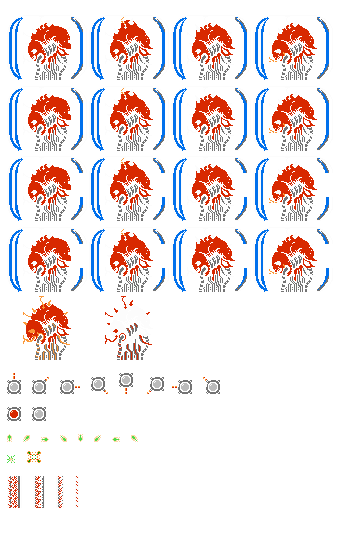
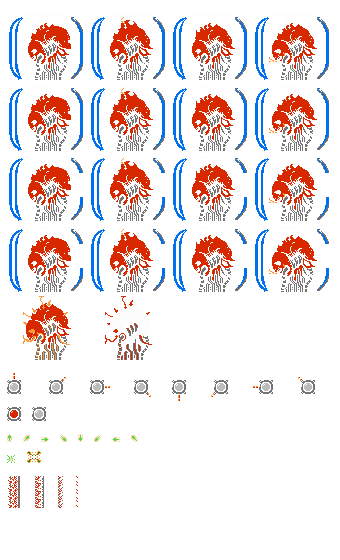
Update CannonBullet + LeftCannon

diff --git a/Metroid/LeftCannon.cpp b/Metroid/LeftCannon.cpp
@@ -27,7 +27,7 @@ void LeftCannon::update(float deltatime)
 		if (_cannonBulletAppearStopWatch->isStopWatch(CANNON_BULLET_APPEAR_TIME))
 		{
 			_spriteIndex++;
-			if (_spriteIndex >= 5)
+			if (_spriteIndex >= 8)
 				_spriteIndex = 0;
 
 			switch (_spriteIndex)
@@ -47,15 +47,24 @@ void LeftCannon::update(float deltatime)
 			case 4:
 				_sprite->setFrameRect(SpriteManager::getInstance()->getSourceRect(eID::BOSS_STAGE, "cannon_05"));
 				break;
+			case 5:
+				_sprite->setFrameRect(SpriteManager::getInstance()->getSourceRect(eID::BOSS_STAGE, "cannon_04"));
+				break;
+			case 6:
+				_sprite->setFrameRect(SpriteManager::getInstance()->getSourceRect(eID::BOSS_STAGE, "cannon_03"));
+				break;
+			case 7:
+				_sprite->setFrameRect(SpriteManager::getInstance()->getSourceRect(eID::BOSS_STAGE, "cannon_02"));
+				break;
 			default:
 				break;
 			}
 
-			if (_spriteIndex == 3)
+			if (_spriteIndex == 3 || _spriteIndex == 5)
 			{
 				auto cannonBulletPosition = GVector2(this->getPosition().x, this->getPosition().y);
 
-				CannonBullet* cannonBullet = new CannonBullet(cannonBulletPosition.x, cannonBulletPosition.y, GVector2(CANNON_BULLET_MOVE_SPEED, -CANNON_BULLET_MOVE_SPEED));
+				CannonBullet* cannonBullet = new CannonBullet(cannonBulletPosition.x, cannonBulletPosition.y, eID::LEFT_CANNON);
 				cannonBullet->init();
 				QuadTreeNode::getInstance()->insert(cannonBullet);
 			}

diff --git a/Metroid/CannonBullet.cpp b/Metroid/CannonBullet.cpp
@@ -1,6 +1,6 @@
 #include "CannonBullet.h"
 
-CannonBullet::CannonBullet(int x, int y, GVector2 velocity) : BaseObject(CANNON_BULLET)
+CannonBullet::CannonBullet(int x, int y, eID cannonId) : BaseObject(CANNON_BULLET)
 {
 	_sprite = SpriteManager::getInstance()->getSprite(eID::BOSS_STAGE);
 	_sprite->setFrameRect(SpriteManager::getInstance()->getSourceRect(eID::BOSS_STAGE, "cannon_bullet_01"));
@@ -15,9 +15,20 @@ CannonBullet::CannonBullet(int x, int y, GVector2 velocity) : BaseObject(CANNON_
 
 	_hitPoint = 1;
 	_isActive = true;
-	_velocity = velocity;
+	
+	switch (cannonId)
+	{
+	case LEFT_CANNON:
+	{
+		_velocity = GVector2(CANNON_BULLET_MOVE_SPEED, -CANNON_BULLET_MOVE_SPEED);
+		_sprite->setRotate(135);
+		break;
+	}
+	default:
+		break;
+	}
 
-	auto movement = new Movement(GVector2(0, 0), _velocity, _sprite);
+	Movement* movement = new Movement(GVector2(0, 0), _velocity, _sprite);
 	_componentList["Movement"] = movement;
 }
 

diff --git a/Metroid/CannonBullet.h b/Metroid/CannonBullet.h
@@ -11,16 +11,16 @@
 #include "QuadtreeNode.h"
 #include <ctime>
 
-#define CANNON_BULLET_APPEAR_TIME 500
-
+#define CANNON_BULLET_APPEAR_TIME 1000
 #define CANNON_BULLET_MOVE_SPEED 200
 #define CANNON_BULLET_RANGE 150
 
 class CannonBullet : public BaseObject
 {
 public:
-	// @velocity: vận tốc ban đầu, dùng để xác định hướng di chuyển
-	CannonBullet(int x, int y, GVector2 velocity);
+	// @cannonId ID của cannon (LEFT_CANNON, MIDDLE_CANNON, RIGHT_CANNON),'
+	// dùng để set vận tốc và hướng sprite đạn
+	CannonBullet(int x, int y, eID cannonId);
 
 	void init();
 	void update(float deltatime);
